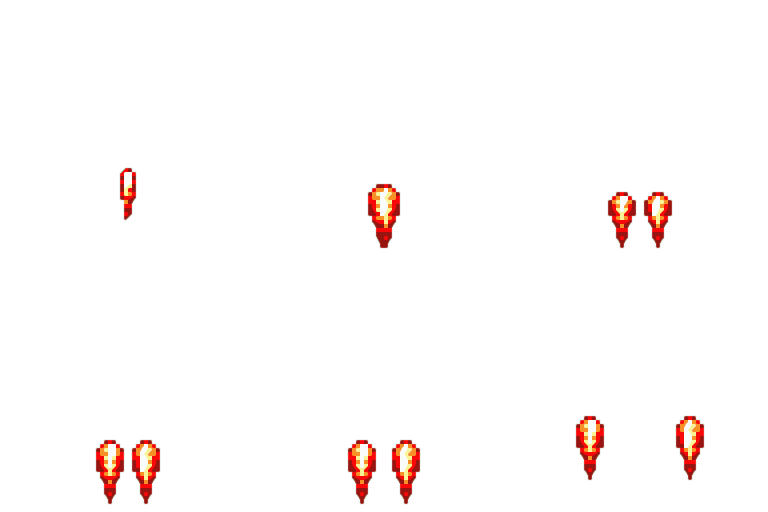
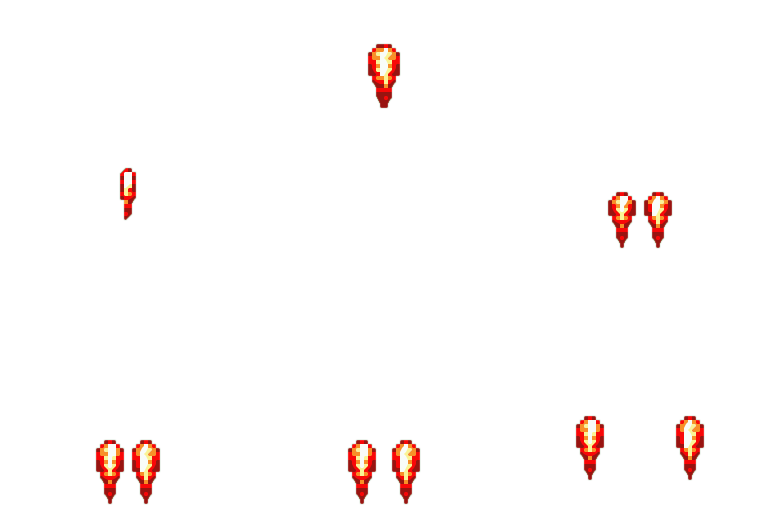
feat: fire towards direction

Changed region(s): [[0.4688, 0.3438, 0.5312, 0.4688], [0.4688, 0.0938, 0.5312, 0.2188]]

diff --git a/static/js/entities/entity.js b/static/js/entities/entity.js
@@ -5,32 +5,26 @@ const EntityState = {
     IDLE: "IDLE",
 };
 
-const MovingDirections = {
-    NONE: "NONE",
-    LEFT: "LEFT",
-    RIGHT: "RIGHT",
-    UP: "UP",
-    DOWN: "DOWN",
-};
-
 export class Entity {
     constructor(x, y, sprite, speed) {
         this.position = new Vector2(x, y);
         this.prevPosition = new Vector2(x, y);
         this.sprite = sprite;
         this.state = EntityState.IDLE;
-        this.direction = MovingDirections.NONE;
+        this.direction = new Vector2(0, 1); // should be an unit vector
         this.speed = speed;
     }
 
     stop() {
         this.state = EntityState.IDLE;
-        this.direction = MovingDirections.NONE;
+        this.direction.x = 0;
+        this.direction.y = 0;
     }
 
-    move(direction) {
+    move(directionX, directionY) {
         this.state = EntityState.MOVING;
-        this.direction = direction;
+        this.direction.x = directionX;
+        this.direction.y = directionY;
     }
 
     update(deltaTime) {
@@ -38,20 +32,9 @@ export class Entity {
         this.prevPosition.x = this.position.x;
         this.prevPosition.y = this.position.y;
         const dx = this.speed * (deltaTime / 1000);
-        switch (this.direction) {
-            case MovingDirections.RIGHT:
-                this.position.x += dx;
-                break;
-            case MovingDirections.LEFT:
-                this.position.x -= dx;
-                break;
-            case MovingDirections.UP:
-                this.position.y -= dx;
-                break;
-            case MovingDirections.DOWN:
-                this.position.y += dx;
-                break;
-        }
+        this.position.x += dx * Math.cos(this.direction.angle - Math.PI / 2);
+        this.position.y += dx * Math.sin(this.direction.angle - Math.PI / 2);
+                
         this.sprite.update(deltaTime);
     }
 

diff --git a/static/js/entities/player.js b/static/js/entities/player.js
@@ -9,7 +9,7 @@ export class Player extends Entity {
         super(x, y, sprite, speed);
         this.name = name;
         this.bullets = [];
-        this.fireRate = 5;
+        this.fireRate = 10;
         this.canFire = true;
         this.accumulatedTime = 0;
         this.cursorPosition = new Vector2(0, 0);
@@ -54,16 +54,16 @@ export class Player extends Entity {
 
         // Desenha o texto no canvas
         const nameX = this.position.x + this.sprite.width / 2;
-        const nameY = this.position.y + this.sprite.height - 30;
+        const nameY = this.position.y + this.sprite.height + 30;
         ctx.fillText(this.name, Math.round(nameX), Math.round(nameY));
     }
 
     draw(ctx, alpha) {
-        super.draw(ctx, alpha);
-        this.drawName(ctx);
         this.bullets.forEach((bullet) => {
             bullet.draw(ctx, alpha);
         });
+        super.draw(ctx, alpha);
+        this.drawName(ctx);
     }
 
     fire() {
@@ -72,8 +72,8 @@ export class Player extends Entity {
             GameResources.bullets,
             3,
             2,
-            128,
-            128,
+            120,
+            360,
             false,
             1,
             1000,
@@ -81,8 +81,9 @@ export class Player extends Entity {
         );
         const bulletX =
             this.position.x + this.sprite.width / 2 - bulletSprite.width / 2;
-        const bulletY = this.position.y - bulletSprite.height / 2;
-        const bullet = new Bullet(bulletX, bulletY, bulletSprite, 600);
+        const bulletY = this.position.y + this.sprite.height / 2 - bulletSprite.height / 2;
+        const bullet = new Bullet(Math.round(bulletX), Math.round(bulletY), bulletSprite, 600);
+        bullet.sprite.rotation = this.sprite.rotation;
         this.bullets.push(bullet);
         this.canFire = false;
     }

diff --git a/static/js/core/sprite.js b/static/js/core/sprite.js
@@ -10,7 +10,9 @@ export class Sprite {
         animationDelay = 1000,
         totalFrames = null,
         spriteWidth = null,
-        spriteHeight = null
+        spriteHeight = null,
+        spriteOffsetX = 0,
+        spriteOffsetY = 0,
     ) {
         this.image = resource;
         this.hFrames = hFrames; // Largura de cada frame
@@ -20,6 +22,8 @@ export class Sprite {
         this.width = width; // largura a ser desenhada no canvas
         this.height = height; // altura a ser desenhada no canvas
         this.totalFrames = totalFrames ?? hFrames * vFrames;
+        this.spriteOffsetX = spriteOffsetX;
+        this.spriteOffsetY = spriteOffsetY;
         this.currentFrame = frameIndex; // Índice do frame atual
         this.animatedSprite = animatedSprite;
         this.accumulatedTime = 0;
@@ -54,8 +58,8 @@ export class Sprite {
 
         const frame = this.frames[this.currentFrame];
 
-        const spriteTopLeftX = frame.x + (this.frameWidth - this.spriteWidth) / 2;
-        const spriteTopLeftY = frame.y + (this.frameHeight - this.spriteHeight) / 2;
+        const spriteTopLeftX = frame.x + this.spriteOffsetX + (this.frameWidth - this.spriteWidth) / 2;
+        const spriteTopLeftY = frame.y + this.spriteOffsetY + (this.frameHeight - this.spriteHeight) / 2;
 
         // Salva o estado do contexto
         ctx.save();

diff --git a/static/js/core/game.js b/static/js/core/game.js
@@ -36,7 +36,7 @@ export class Game {
             130,
             105,
             false,
-            0,
+            3,
             1000,
             null,
             130,
@@ -70,16 +70,16 @@ export class Game {
         this.player.updateCursorPosition(this.gameInput.cursorPosition.x, this.gameInput.cursorPosition.y);
         switch (this.gameInput.currentKey) {
             case GameConfig.MOVE_LEFT:
-                this.player.move("LEFT");
+                this.player.move(-1, 0);
                 break;
             case GameConfig.MOVE_RIGHT:
-                this.player.move("RIGHT");
+                this.player.move(1, 0);
                 break;
             case GameConfig.MOVE_UP:
-                this.player.move("UP");
+                this.player.move(0, 1);
                 break;
             case GameConfig.MOVE_DOWN:
-                this.player.move("DOWN");
+                this.player.move(0, -1);
                 break;
             case GameConfig.FIRE:
                 this.player.stop();

diff --git a/static/js/entities/bullet.js b/static/js/entities/bullet.js
@@ -6,16 +6,19 @@ export class Bullet extends Entity {
         this.durationTime = 2000;
         this.accumulatedTime = 0;
         this.isAlive = true;
-        this.update = this.update.bind(this);
     }
 
     update(dt) {
+        // move bullet towards
+        this.move(Math.cos(this.sprite.rotation - Math.PI / 2), Math.sin(this.sprite.rotation + Math.PI / 2));
         super.update(dt);
-        this.move("UP");
+
         this.accumulatedTime += dt;
         if (this.accumulatedTime >= this.durationTime) {
             this.isAlive = false;
             this.accumulatedTime = 0;
         }
+
+        this.sprite.update(dt);
     }
 }

diff --git a/static/js/utils/vector2.js b/static/js/utils/vector2.js
@@ -8,6 +8,10 @@ export class Vector2 {
         return Math.sqrt(Math.pow(this.x, 2) + Math.pow(this.y, 2));
     }
 
+    get angle() {
+        return Math.atan2(this.x, this.y);
+    }
+
     distTo(otherVector) {
         return Math.sqrt(
             Math.pow(otherVector.x - this.x, 2) +
